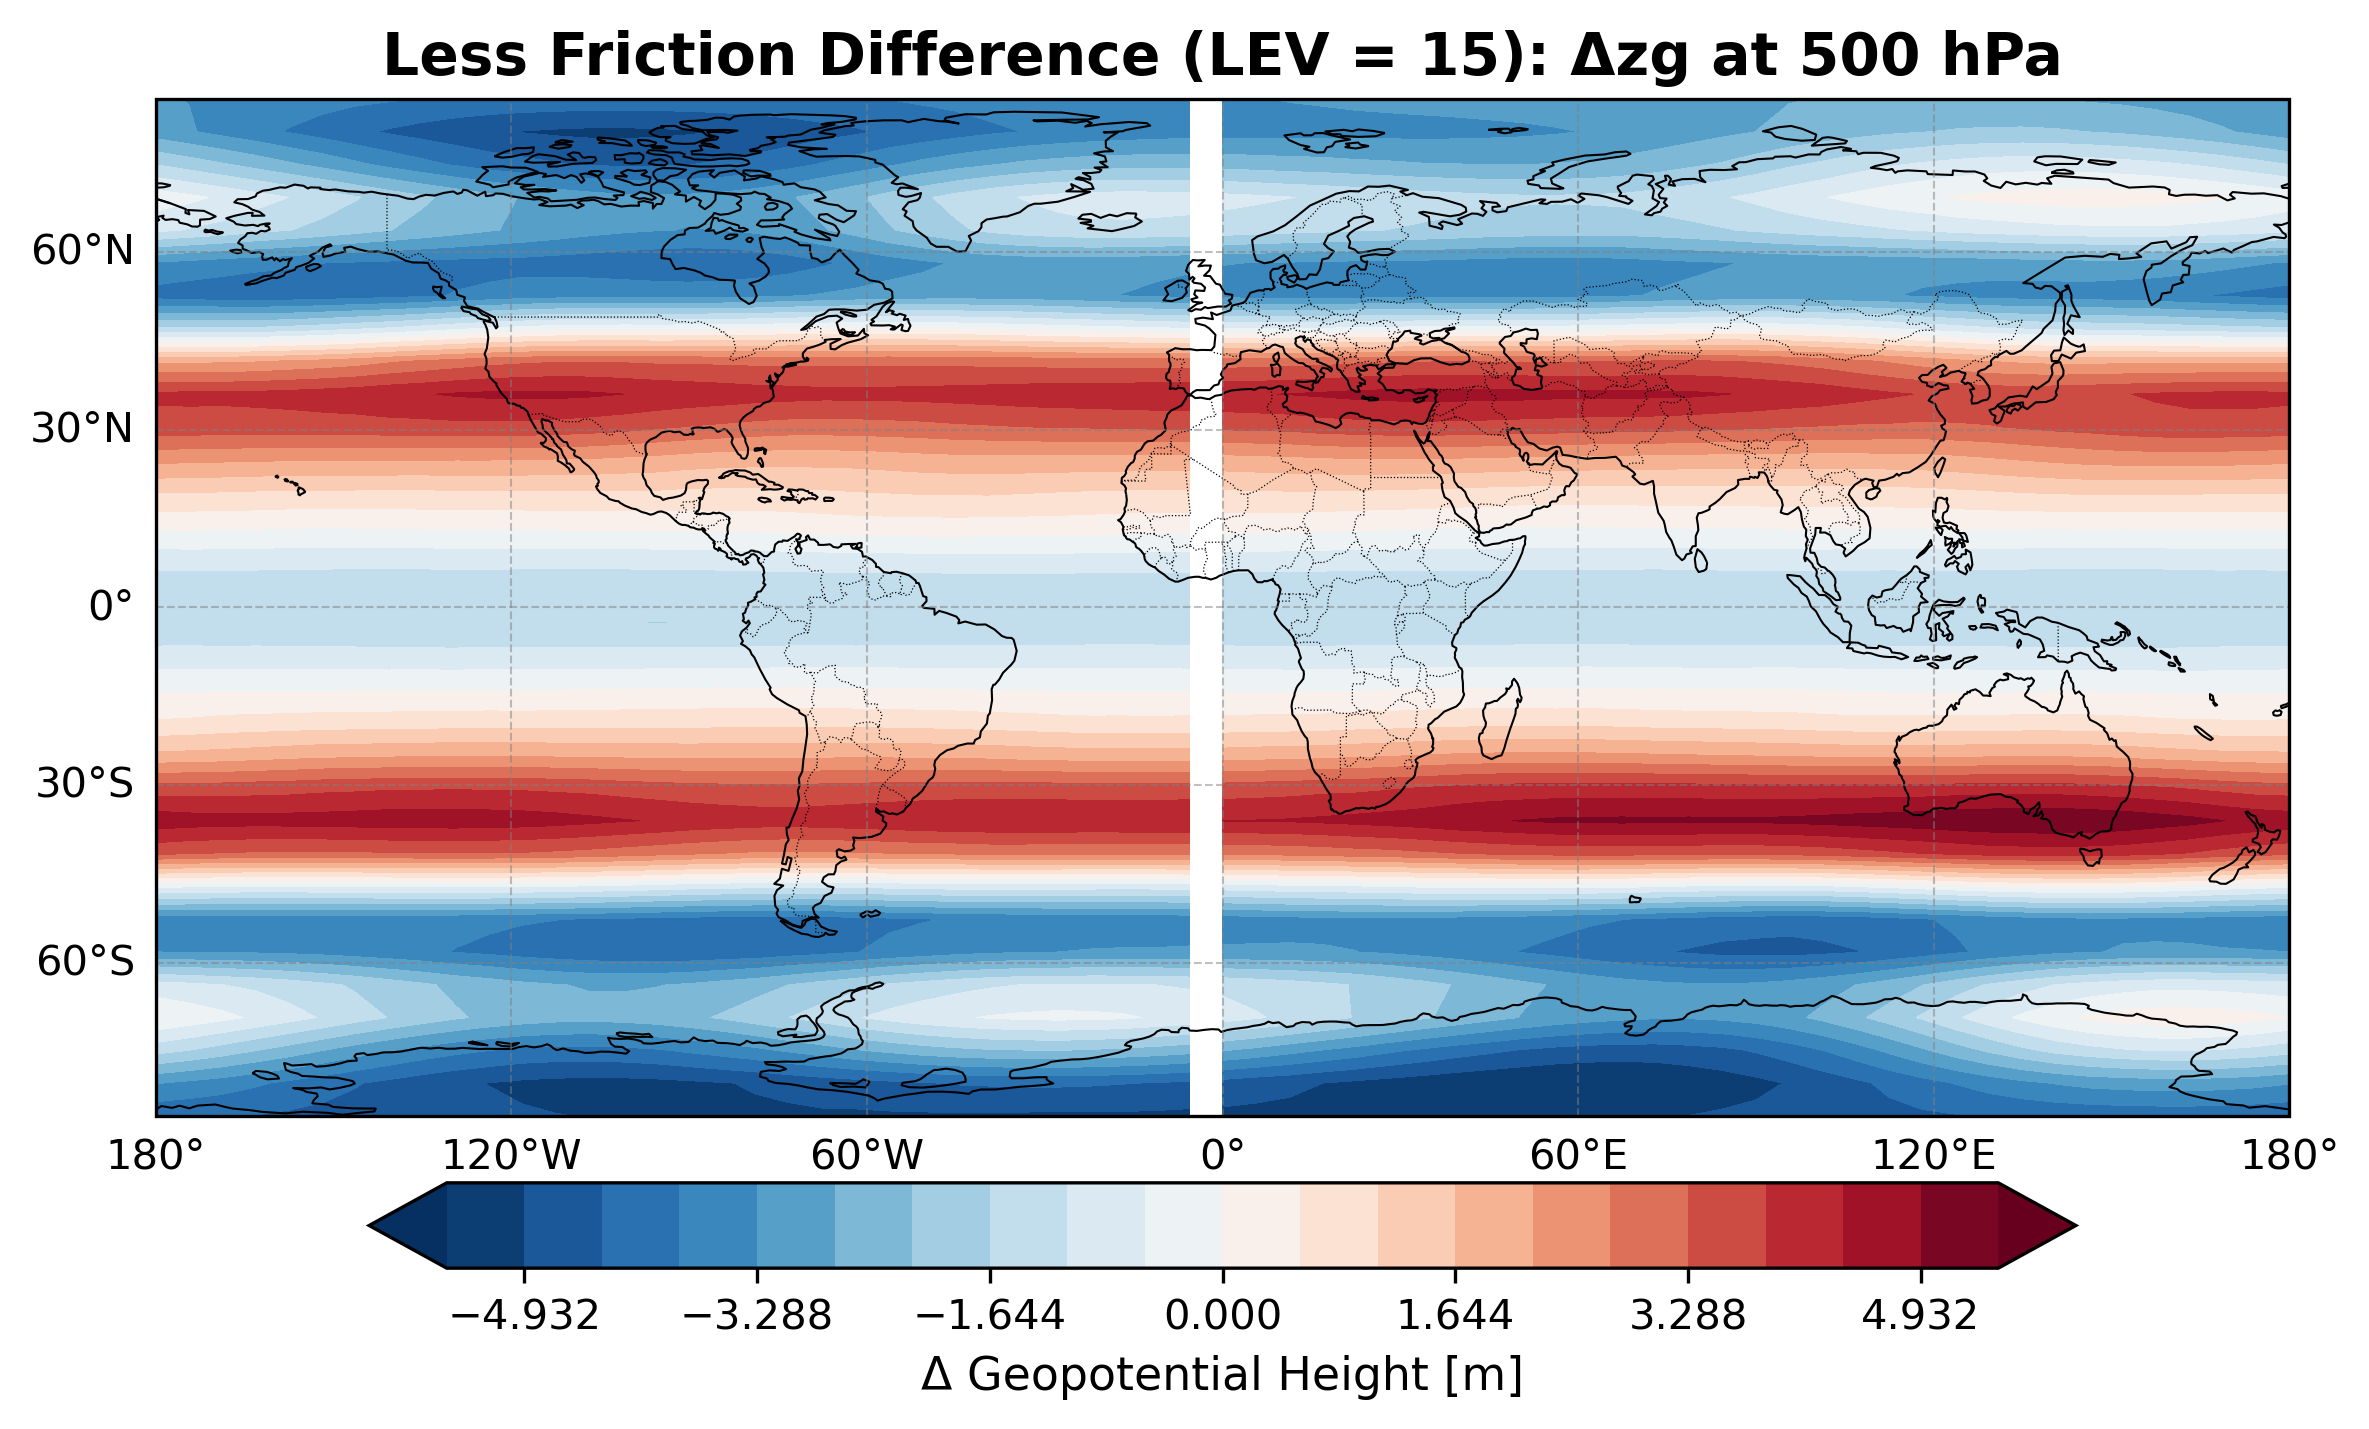
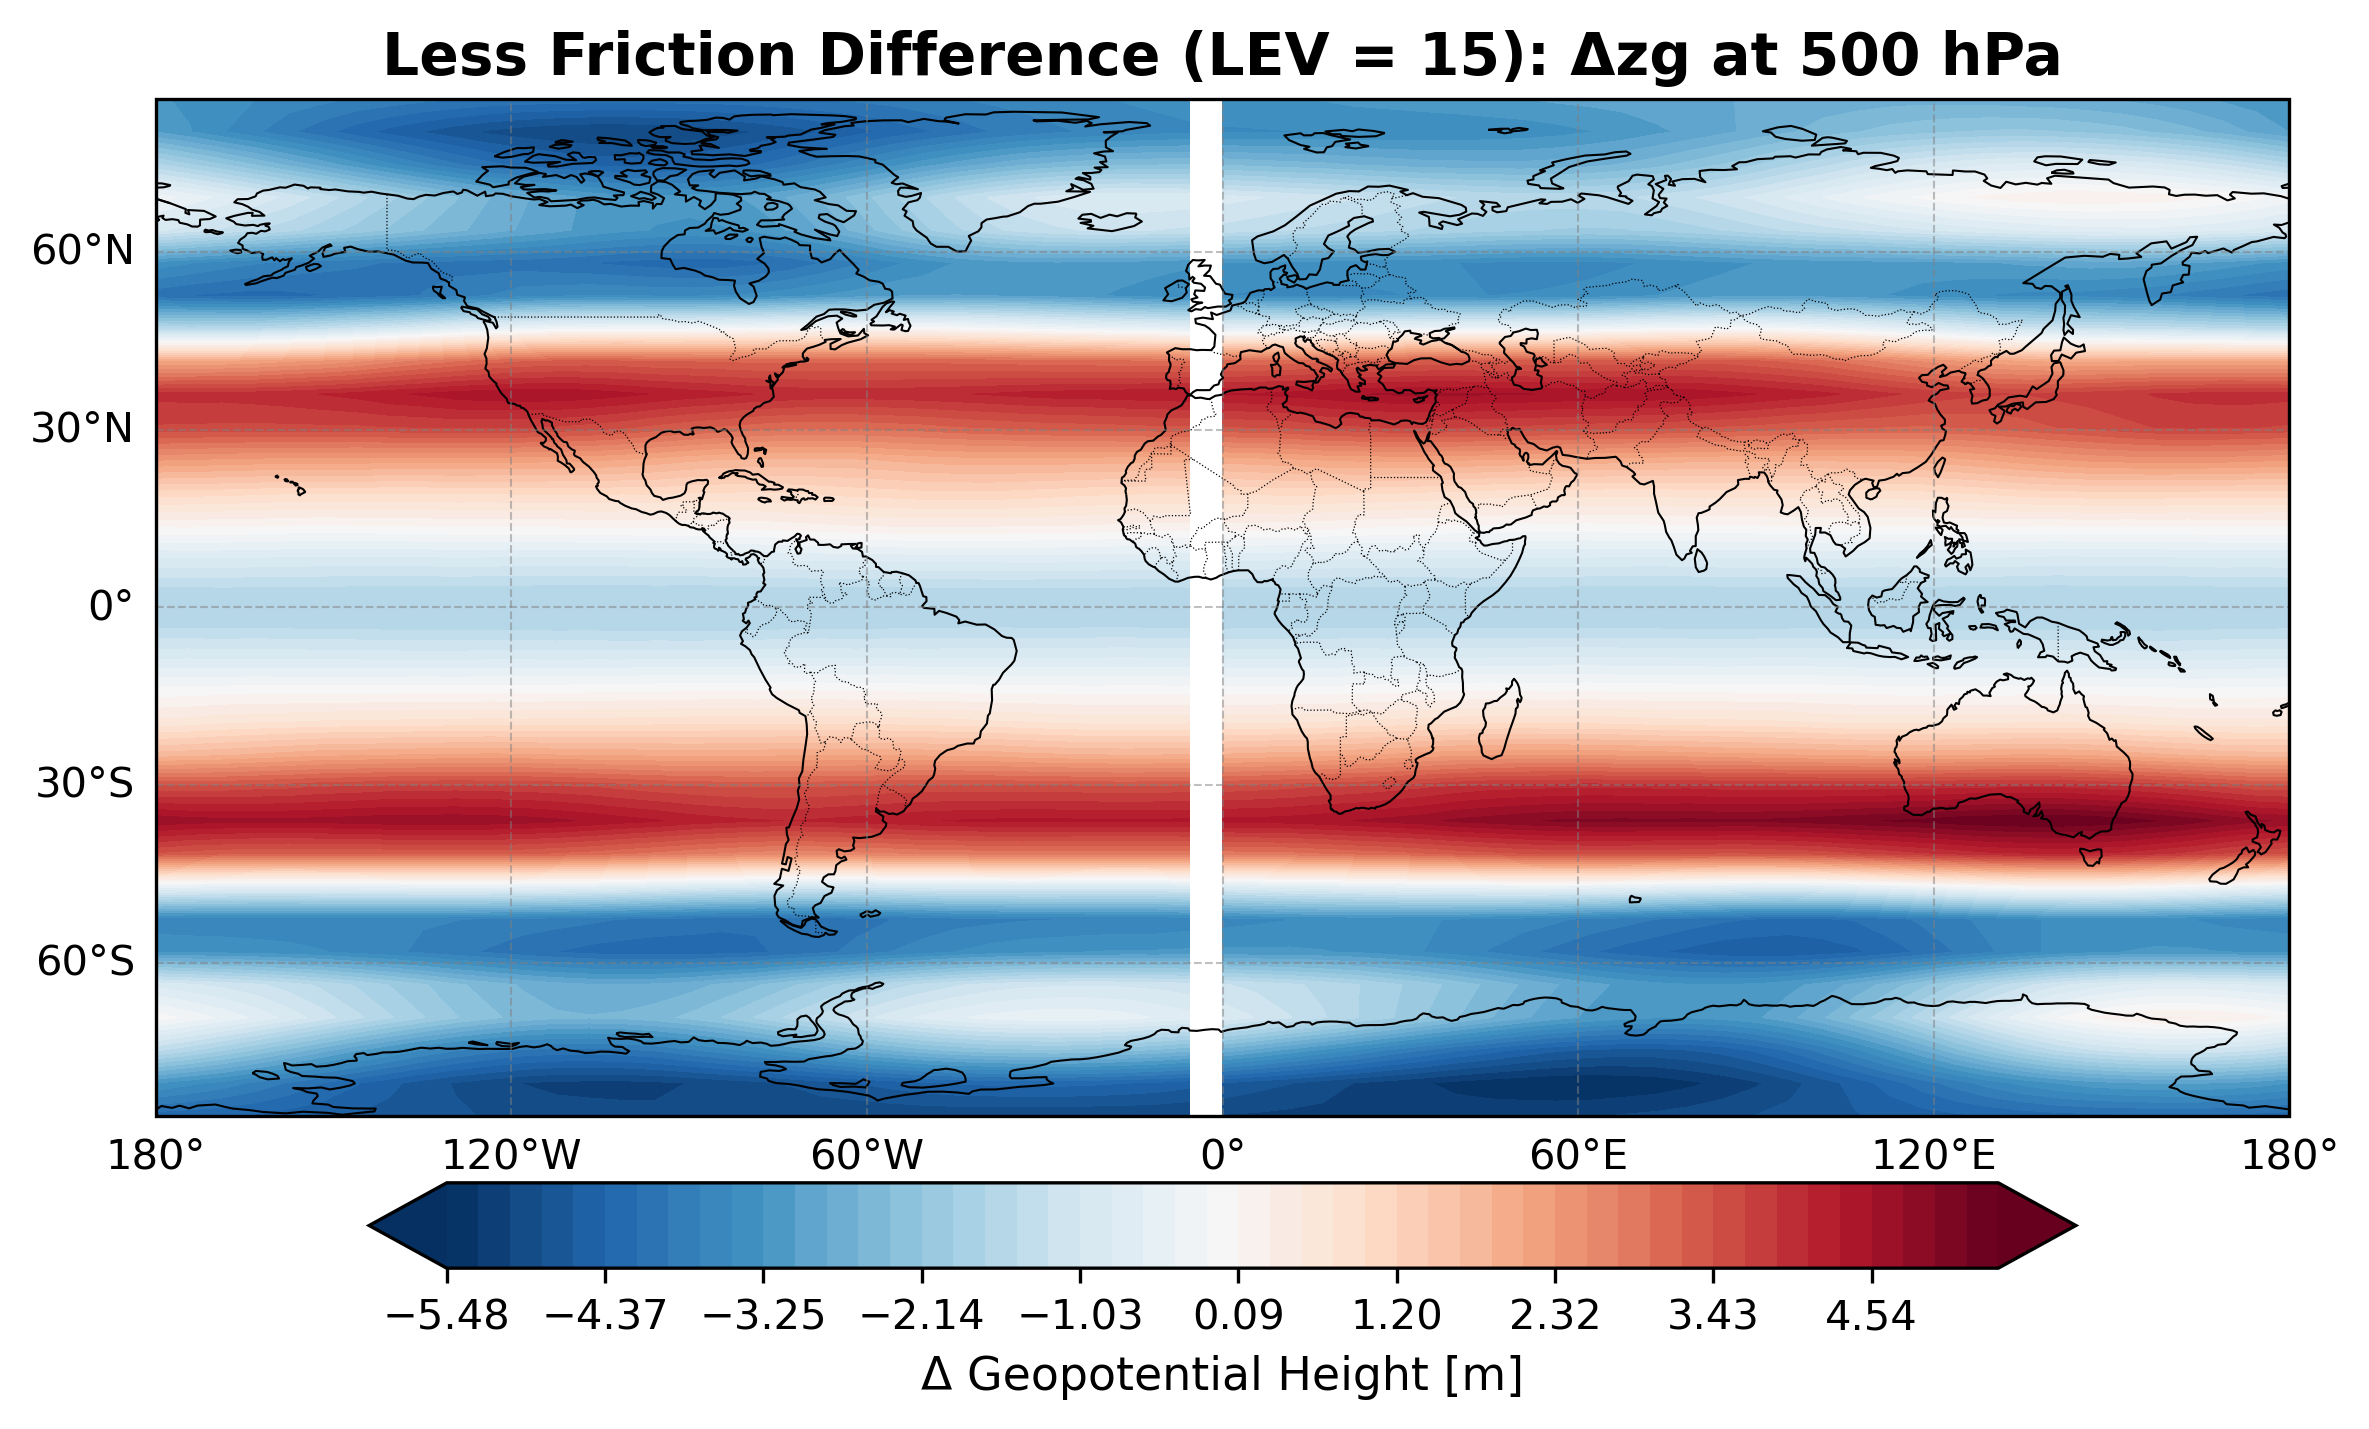
changing the diff plots again

diff --git a/src/GeopotentialHeight/GeopotentialHeight.py b/src/GeopotentialHeight/GeopotentialHeight.py
@@ -71,8 +71,10 @@ def create_geopotential_height_difference_map(refFile, expFile, title, pressureL
     zg_diff = zgExp_at_level - zgRef_at_level
 
     # Symmetric color range around 0
-    max_abs = np.nanmax(np.abs(zg_diff.values))
-    levels = np.linspace(-max_abs, max_abs, 21)
+    # max_abs = np.nanmax(np.abs(zg_diff.values))
+    vmin = float(zg_diff.min())
+    vmax = float(zg_diff.max())
+    levels = np.linspace(vmin, vmax, 50)
 
     # Plot
     plt.figure(figsize=(8, 5))
@@ -176,7 +178,7 @@ def create_geopotential_height_graph(file1, file2, file3, label1, label2, label3
     print()
     return
 
-
+'''
 create_geopotential_height_map('code_156-lessfric5',  'Less Friction: LEV = 5',   100000)
 create_geopotential_height_map('code_156-lessfric10', 'Less Friction: LEV = 10',  100000)
 create_geopotential_height_map('code_156-lessfric15', 'Less Friction: LEV = 15',  100000)
@@ -187,8 +189,6 @@ create_geopotential_height_map('code_156-ref5',       'Reference: LEV = 5',     
 create_geopotential_height_map('code_156-ref10',      'Reference: LEV = 10',      100000)
 create_geopotential_height_map('code_156-ref15',      'Reference: LEV = 15',      100000)
 
-create_geopotential_height_difference_map('code_156-ref15', 'code_156-morefric15', 'More Friction Difference', 50000, 15)
-create_geopotential_height_difference_map('code_156-ref15', 'code_156-lessfric15', 'Less Friction Difference', 50000, 15)
 create_geopotential_height_difference_map('code_156-ref15', 'code_156-morefric15', 'More Friction Difference', 100000, 15)
 create_geopotential_height_difference_map('code_156-ref15', 'code_156-lessfric15', 'Less Friction Difference', 100000, 15)
 
@@ -198,3 +198,8 @@ create_geopotential_height_graph('code_156-ref15', 'code_156-lessfric15', 'code_
                                  'Reference', 'Less Friction', 'More Friction', 15, 85000, 1410)
 create_geopotential_height_graph('code_156-ref15', 'code_156-lessfric15', 'code_156-morefric15',
                                  'Reference', 'Less Friction', 'More Friction', 15, 100000, 105)
+                                 '''
+
+
+create_geopotential_height_difference_map('code_156-ref15', 'code_156-morefric15', 'More Friction Difference', 50000, 15)
+create_geopotential_height_difference_map('code_156-ref15', 'code_156-lessfric15', 'Less Friction Difference', 50000, 15)
